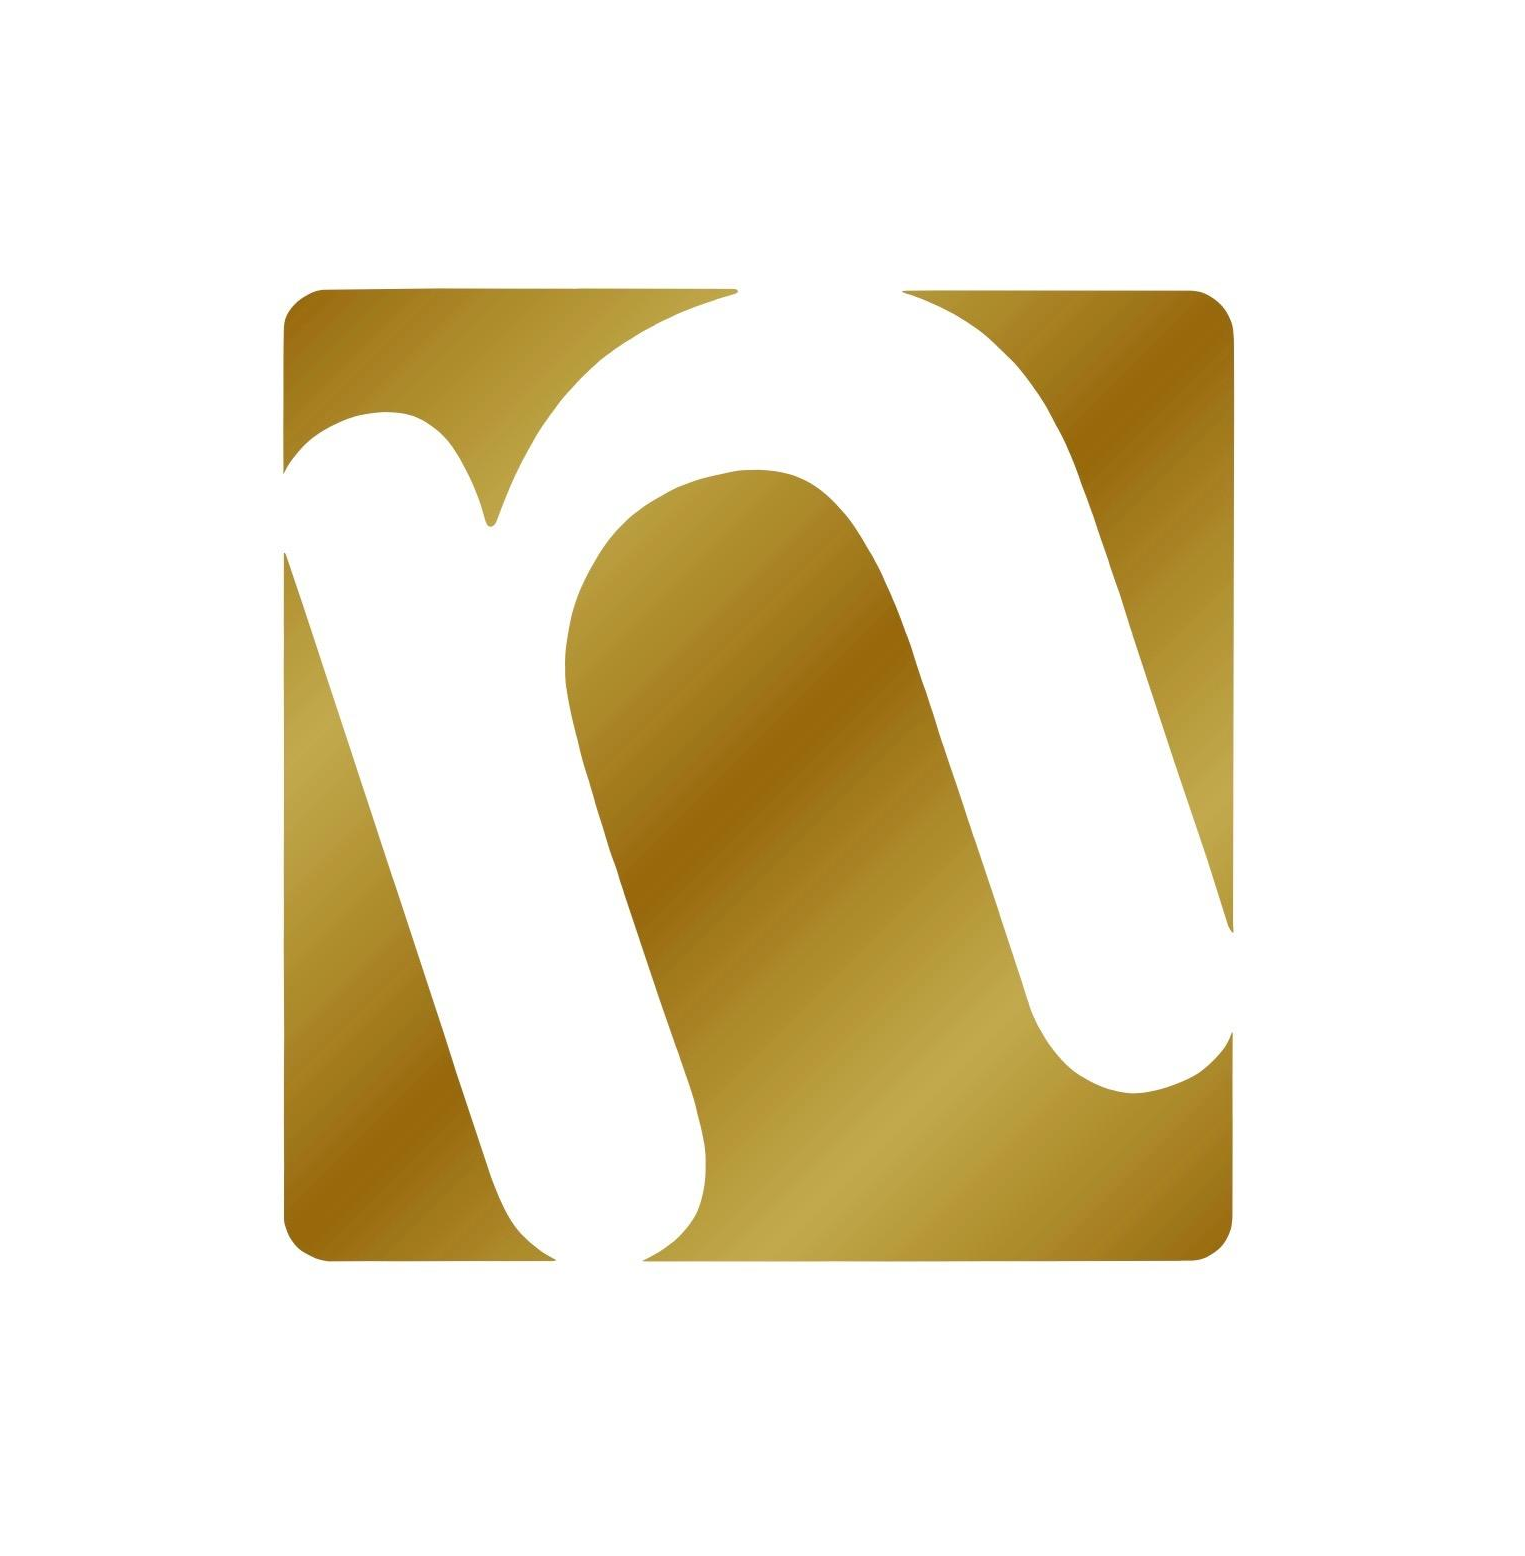
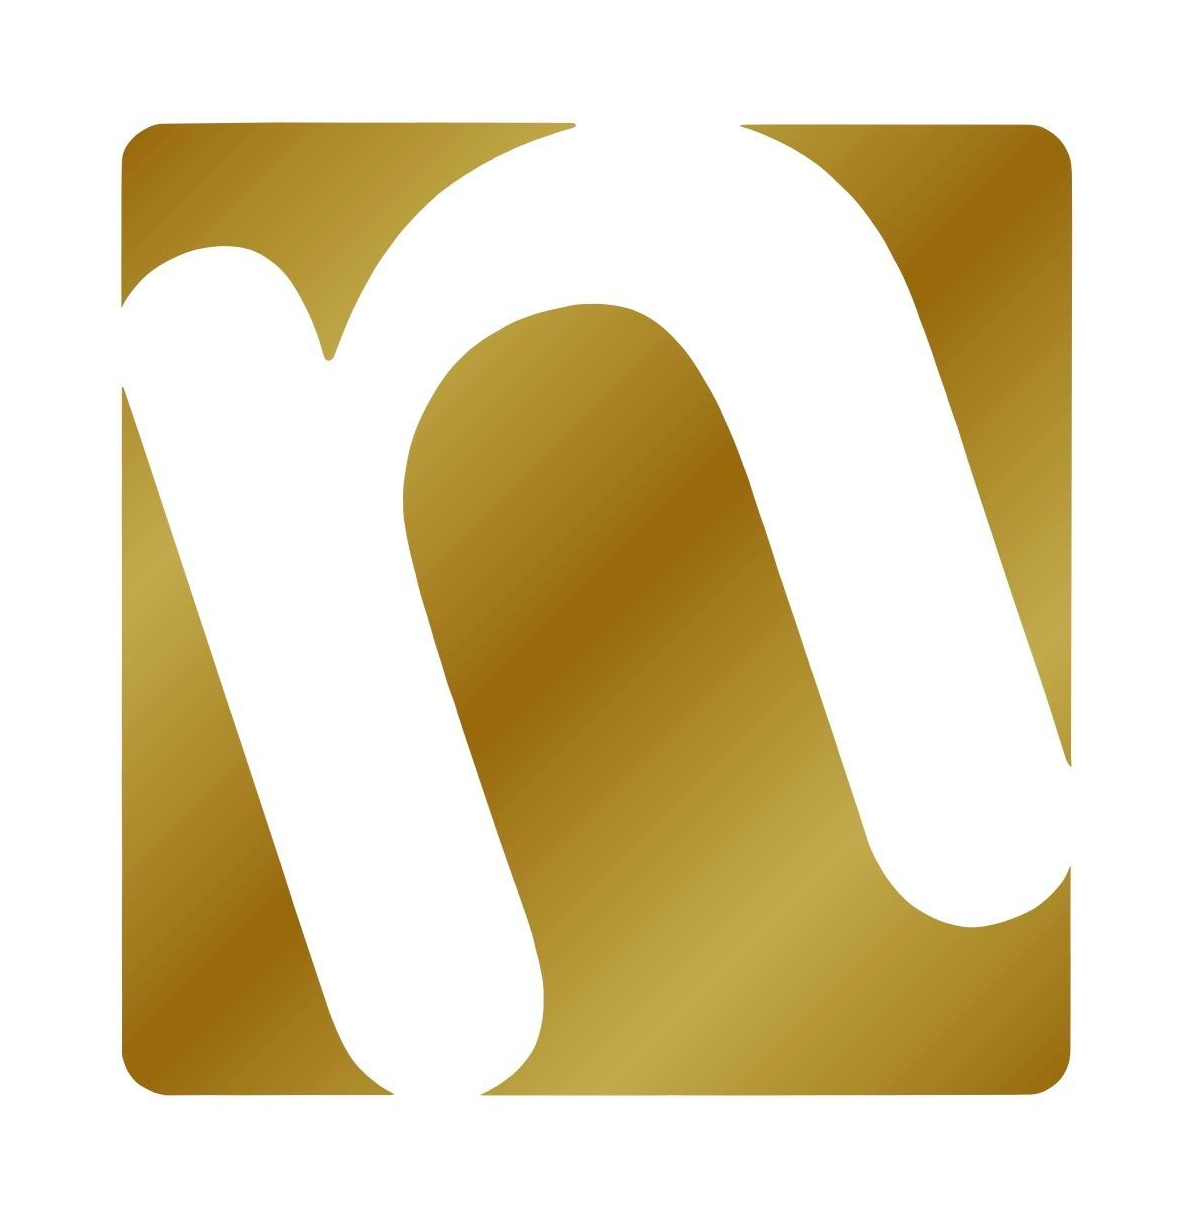
changed some details about image loading

Changed region(s): [[0.0925, 0.0931, 0.8942, 0.9003], [0.0925, 0.3105, 0.37, 0.9003], [0.5858, 0.0931, 0.8942, 0.6209]]

diff --git a/frontend/src/pages/Quote.js b/frontend/src/pages/Quote.js
@@ -27,6 +27,8 @@ function Quote () {
 
     const quote = data?.quoteR;
 
+    console.log(quote)
+
     return (
         <>
         <LoadingOverlay show={loading && !data} />
@@ -64,7 +66,9 @@ function Quote () {
                                 <div id="quote-page">
                                     <Card.Body className="pt-5">
                                         <Card.Text className="display-6 text-center"><span className="quote-body font-poppins" id="main-quote">{quote.quoteText}</span></Card.Text>
-                                        <Card.Text className="text-end pe-2"><strong><AuthorButton whitened={true} type={"link"} name={quote.author}/></strong></Card.Text>
+                                        <Card.Text className="text-end pe-2"><strong>
+                                            {quote.author && <AuthorButton type={"link"} whitened={true} name={quote.author} realID={quote.authorRealID}/>}
+                                        </strong></Card.Text>
                                     </Card.Body>
                                     <Card.Body className="text-center">
                                         <a className="mx-2 share-button" target="_blank" rel="noreferrer" href={`https://twitter.com/intent/tweet?url=${window.location.href} - "${quote.quoteText} - ${quote.author}"`} id="share-X"><FaXTwitter/></a>
@@ -78,23 +82,23 @@ function Quote () {
                                 {quote.topics.length && 
                                     <Card.Footer className="text-center py-3">
                                         <div className="mb-2">
-                                            {quote.topics.map((index) => (
-                                                <TopicButton key={index} type={"button"} theme={"weak"} name={index}/>
+                                            {quote.topicDetails.map((index) => (
+                                                <TopicButton type={"button"} name={index.name} realID={index.realID} theme={"weak"} key={index.realID}/>
                                             ))}
                                         </div>
                                         <div className="text-start text-theme mx-2">
-                                            {quote.relatedTopics.map((relatedTopic) => (
+                                            {quote.relatedTopicDetails.map((detail) => (
                                                 <span>
                                                     {
-                                                        relatedTopic === quote.relatedTopics[quote.relatedTopics.length-1] ?
-                                                            <span><u><TopicButton key={relatedTopic} type={"link"} theme={"related"} name={relatedTopic}/></u></span>
-                                                            :
-                                                            <span><u><TopicButton key={relatedTopic} type={"link"} theme={"related"} name={relatedTopic}/></u>; </span>
+                                                    detail === quote.relatedTopicDetails[quote.relatedTopicDetails.length-1] ?
+                                                        <span><u><TopicButton type={"link"} name={detail.name} realID={detail.realID} theme={"related"}/></u></span>
+                                                        :
+                                                        <span><u><TopicButton type={"link"} name={detail.name} realID={detail.realID} theme={"related"}/></u>; </span>
                                                     }
                                                 </span>
                                             ))}
-                                            {quote.unrelatedTopics.map((unrelatedTopic) => (
-                                                <span>; <u><TopicButton key={unrelatedTopic} type={"link"} theme={"unrelated"} name={unrelatedTopic}/></u> </span>
+                                            {quote.unrelatedTopicDetails.map((detail) => (
+                                                <span>; <u><TopicButton key={detail.realID} type={"link"} theme={"unrelated"} name={detail.name} realID={detail.realID}/></u></span>
                                             ))}
                                         </div>
                                     </Card.Footer>

diff --git a/frontend/public/index.html b/frontend/public/index.html
@@ -8,12 +8,12 @@
 
     <meta name="keywords" content="quotes,nuggets,1001,1001nuggets,authors,topics">
     <meta property="og:type" content="article">
-    <meta property="og:image" content="https://www.1001nuggets.com/assets/images/N_IconGold512.jpg"/>
+    <meta property="og:image" content="%PUBLIC_URL%/assets/images/N_IconGold2.png"/>
     <meta name="twitter:card" content="summary">
     <meta name="twitter:site" content="www.1001nuggets.com">
     <meta name="twitter:title" content="1001nuggets.com">
     <meta name="twitter:description" content="Thousands of organized quotes and proverbs, all at the push of a button!">
-    <meta name="twitter:image" content="https://www.1001nuggets.com/assets/images/N_IconGold512.jpg">
+    <meta name="twitter:image" content="%PUBLIC_URL%/assets/images/N_IconGold2.png">
     
     <meta name="google-adsense-account" content="ca-pub-7531037282217434">
 

diff --git a/frontend/src/App.js b/frontend/src/App.js
@@ -21,8 +21,8 @@ const TopicNav = React.lazy(() => import("./pages/TopicNav"));
 const CollectionNav = React.lazy(() => import ("./pages/CollectionNav"));
 const Collection = React.lazy(() => import ("./pages/Collection"));
 
-const TagNav = React.lazy(() => import("./pages/TagNav"));
-const TagPage = React.lazy(() => import("./pages/TagPage"));
+// const TagNav = React.lazy(() => import("./pages/TagNav"));
+// const TagPage = React.lazy(() => import("./pages/TagPage"));
 
 const PeopleNav = React.lazy(() => import("./pages/PeopleNav"));
 const PeoplePage = React.lazy(() => import("./pages/PeoplePage"));